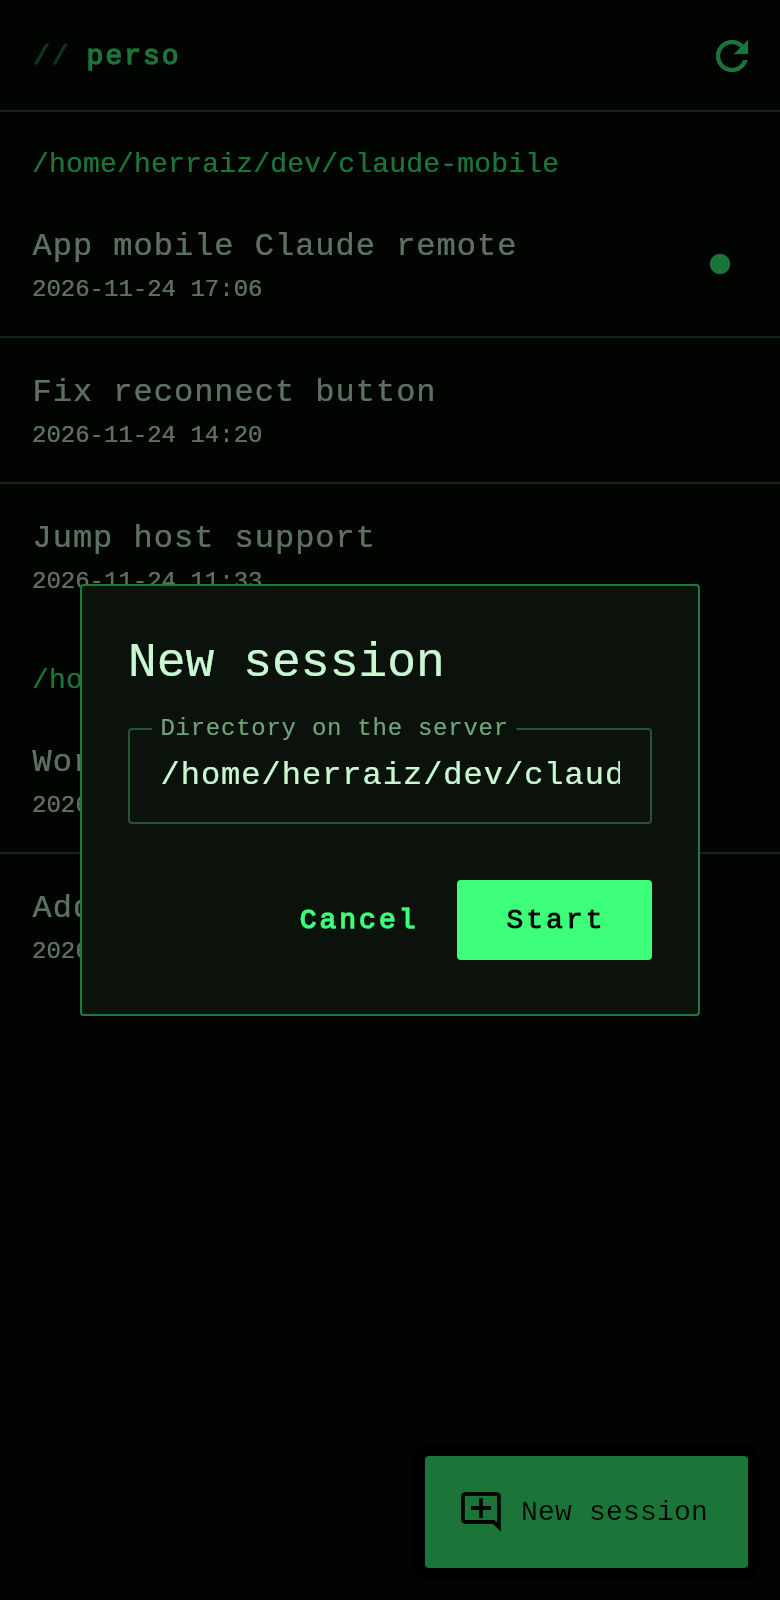
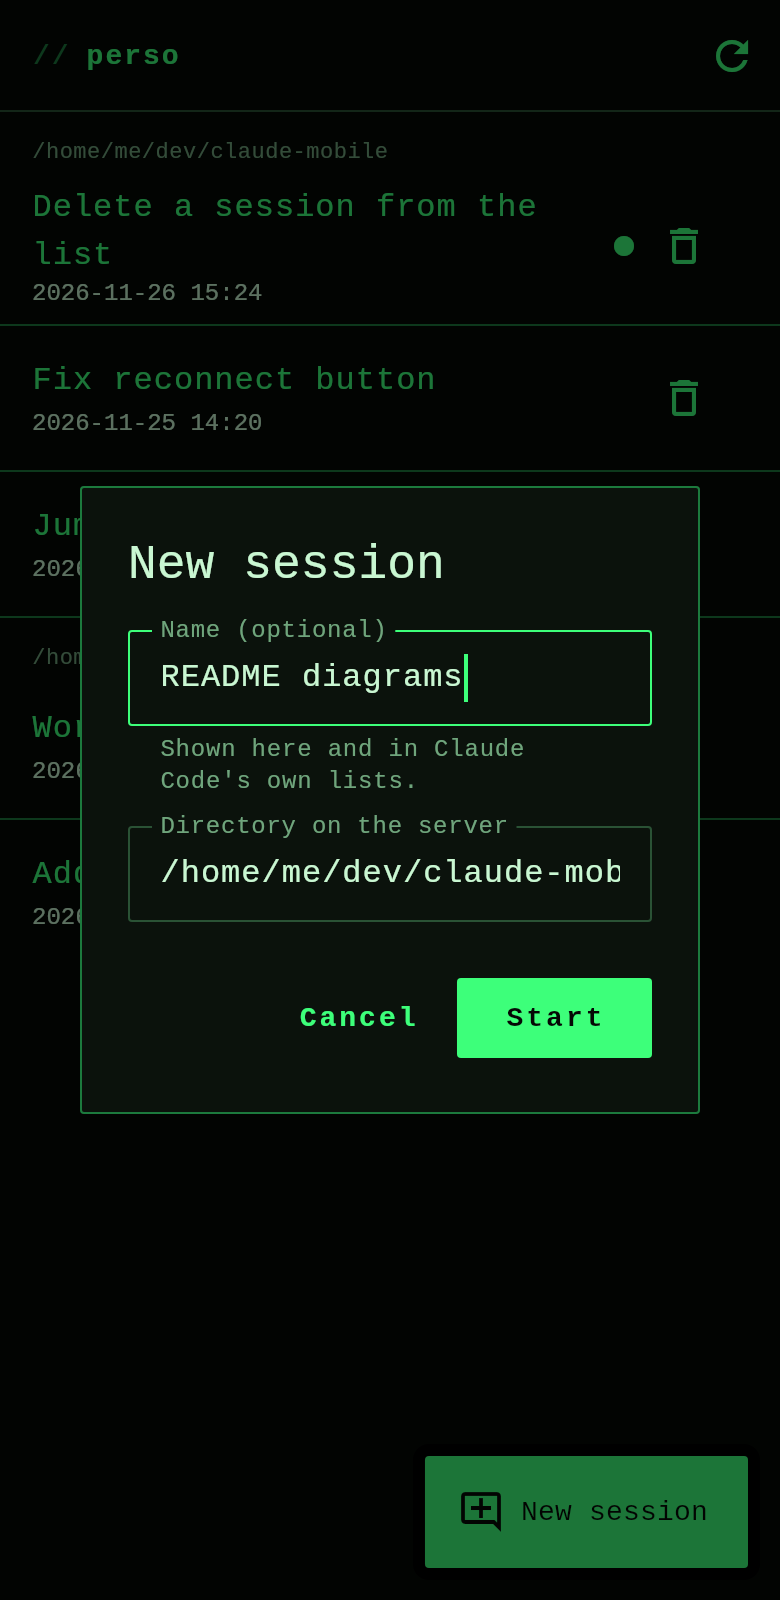
docs: show what the app looks like in the README
Screenshots are rendered again from the current widgets: the sessions
list now has its bin icons, the new session dialog its name field and
the chat its model menu. Adds the session deletion dialog.

diff --git a/README.md b/README.md
@@ -10,6 +10,7 @@ there is a plain shell command sent over SSH.
 
 No secrets in git: SSH keys live only in the phone's secure storage.
 
+- [What it looks like](#what-it-looks-like)
 - [The big picture](#the-big-picture)
 - [The SSH connection](#the-ssh-connection)
 - [Creating a session](#creating-a-session)
@@ -17,6 +18,19 @@ No secrets in git: SSH keys live only in the phone's secure storage.
 - [When the link drops](#when-the-link-drops)
 - [Deleting a session](#deleting-a-session)
 - [Development](#development)
+
+## What it looks like
+
+| The sessions of a server | A conversation |
+| :---: | :---: |
+| <img src="docs/screenshots/sessions.png" width="300" alt="Sessions list, grouped by directory, each with a bin icon"> | <img src="docs/screenshots/chat.png" width="300" alt="Conversation with a tool call waiting for approval"> |
+
+On the left, the sessions found on the server, grouped by working directory; the dot
+marks one written to in the last minute. On the right, a conversation: Claude's answer,
+its tool calls, and a permission request waiting for *Deny* or *Approve*.
+
+The screenshots are rendered from the widgets with sample data, not taken on a phone:
+the font differs slightly from the device's own monospace.
 
 ## The big picture
 
@@ -107,6 +121,8 @@ What to know:
 From a profile's sessions list, *New session* asks for a directory on the server and an
 optional name, then opens the chat. The session itself is created by `claude`, not by
 the app: the app only chooses its id.
+
+<img src="docs/screenshots/new-session.png" width="300" alt="New session dialog: optional name and directory on the server">
 
 ```mermaid
 sequenceDiagram
@@ -217,6 +233,8 @@ stateDiagram-v2
 
 The bin icon on a session erases it **from the server**. There is no undo, hence the
 confirmation, which adds a warning when the session was active in the last minute.
+
+<img src="docs/screenshots/delete-session.png" width="300" alt="Delete this session? dialog, with the warning for a recently active session">
 
 ```mermaid
 sequenceDiagram
